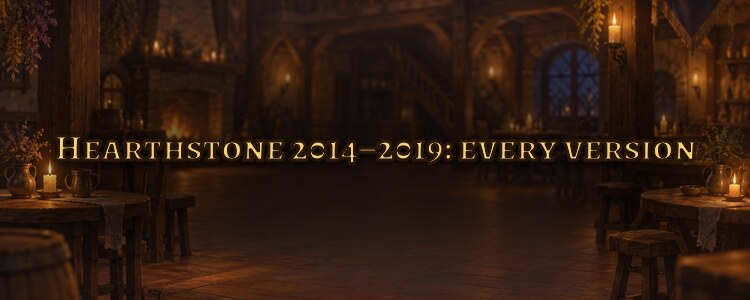
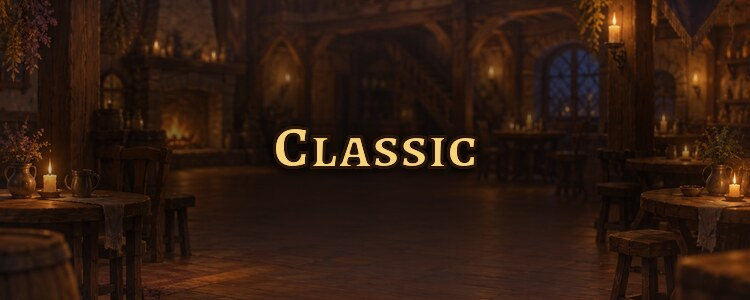
Megapack: shown as Classic; each version looks like its expansion (ui/eras/<era>/, stored once, mapped by the version's files)
Claude-Session: https://claude.ai/code/session_01EiXgp8TjHJ4tufzuCLnDgH

Changed region(s): [[0.0613, 0.42, 0.9507, 0.57]]

diff --git a/tools/pack.py b/tools/pack.py
@@ -57,6 +57,7 @@ DIRS = {  # dir -> (extensions, depth below dir: 1 = files right in it, 2 = in a
 FONT_FILES = (".ttf", ".otf", ".txt", ".md")  # ui/fonts/: the theme's fonts and their licences
 # Card fields that only change how a card looks or sounds: left out of rules_hash.
 PRESENTATION = ("fx", "sounds", "voice")
+MEDIA = IMAGES + AUDIO + (".ttf", ".otf")
 NO_COMPRESS = IMAGES + (".opus", ".ogg", ".mp3")
 ZIP_TIME = (1980, 1, 1, 0, 0, 0)
 
@@ -143,6 +144,7 @@ def version_ids(files):
 
 def version_view(files, version_id):
     """The files of one version of a pack (format.md §13): the shared files and versions/<id>/ moved to the top, the
+    shared files its `files` names at their places in it (its era's ui/: path in the view -> stored path), the
     manifest's rules_hash that version's. Everything that reads a one-version pack reads a view the same way."""
     man = load_json(files["manifest.json"], "manifest.json")
     v = next((x for x in man.get("versions") or [] if isinstance(x, dict) and x.get("id") == version_id), None)
@@ -151,6 +153,7 @@ def version_view(files, version_id):
     pre = f"versions/{version_id}/"
     out = {p: d for p, d in files.items() if not p.startswith("versions/") and not is_version_file(p)}
     out.update((p[len(pre):], d) for p, d in files.items() if p.startswith(pre))
+    out.update((p, files[src]) for p, src in (v.get("files") or {}).items() if src in files)  # its era's look
     if "rules_hash" in v:
         man["rules_hash"] = v["rules_hash"]
     out["manifest.json"] = pretty(man)
@@ -308,7 +311,9 @@ def check_paths(files, r):
         exts, depth = DIRS[top]
         if top == "ui" and len(parts) == 3 and parts[1] == "fonts":
             exts, depth = FONT_FILES, 2
-        elif top == "ui" and p.lower().endswith(".json") and p != "ui/theme.json":
+        elif top == "ui" and len(parts) == 4 and parts[1] == "eras":  # ui/eras/<era>/: an era's look (format.md §13)
+            depth = 3
+        if top == "ui" and p.lower().endswith(".json") and parts[-1] != "theme.json":
             r.error(f"{p}: the only JSON file in ui/ is theme.json")
         elif top == "art" and p.lower().endswith(".json") and parts[-1] != "framing.json":
             r.error(f"{p}: the only JSON file in an art set is framing.json")
@@ -418,6 +423,15 @@ def check_files(files):
     for v in man["versions"]:
         if v.get("dir", f"versions/{v['id']}") != f"versions/{v['id']}":
             r.error(f"manifest.json: version {v['id']}: dir must be versions/{v['id']}")
+        for p, src in v.get("files", {}).items():
+            if src not in files:
+                r.error(f"manifest.json: version {v['id']}: files: {src} (its {p}) is not in the pack")
+    first = {}  # every picture, sound and font once: a version names a shared one in `files` instead of a copy
+    for p, d in sorted(files.items()):
+        if p.lower().endswith(MEDIA):
+            other = first.setdefault(hashlib.sha256(d).digest(), p)
+            if other != p:
+                r.error(f"{p}: the same bytes as {other} (a pack with versions stores each picture, sound and font once)")
     default = man.get("default_version")
     if default not in ids:
         r.error(f"manifest.json: default_version {default!r} is not one of the versions")
@@ -1427,10 +1441,11 @@ def build_versions(src):
                 and not rel.startswith("versions/"):
             files[rel] = f.read_bytes()
     man = load_json(files.pop("manifest.json"), "manifest.json")
-    bases = {}
+    bases, looks = {}, {}
     for name in dict.fromkeys([patches[default]["base"]] + [patches[v["id"]]["base"] for v in vlist]):
         bf, bm = _build_one(src.parent / name)
         bases[name] = {p: d for p, d in bf.items() if is_version_file(p)}
+        looks[name] = {p: d for p, d in bf.items() if p.startswith("ui/") and not p.startswith("ui/fonts/")}
         for p, d in bf.items():
             if p != "manifest.json" and not is_version_file(p):
                 files.setdefault(p, d)
@@ -1441,6 +1456,7 @@ def build_versions(src):
             man[kind] = man.get(kind, []) + [s for s in bm.get(kind, []) if s["id"] not in have]
         for k, mark in bm.get("set_marks", {}).items():
             man.setdefault("set_marks", {}).setdefault(k, mark)
+    looks = era_looks(files, looks)
     entries, fx = [], set()
     fm = src / "formats.json"
     fmj = load_json(fm.read_bytes(), str(fm)) if fm.exists() else {}
@@ -1459,13 +1475,32 @@ def build_versions(src):
         for f in sorted((src / "versions" / vid / "scripts").glob("*.lua")):
             vf[f"scripts/version/{f.name}"] = f.read_bytes()
         fx |= {x for c in load_json(vf["cards.json"], "cards.json") for x in c.get("fx", {}).values()}
-        entries.append({**v, "build": patch.get("build"), "dir": f"versions/{vid}", "rules_hash": rules_hash(vf)})
+        entries.append({**v, "build": patch.get("build"), "dir": f"versions/{vid}", "rules_hash": rules_hash(vf)}
+                       | ({"files": looks[patch["base"]]} if looks[patch["base"]] else {}))
         files.update((f"versions/{vid}/{p}", d) for p, d in vf.items())
         if vid == default:
             files.update(vf)
     man.update(versions=entries, default_version=default, fx=sorted(fx),
                rules_hash=next(e["rules_hash"] for e in entries if e["id"] == default))
     return files, man
+
+
+def era_looks(files, looks):
+    """{base pack: {path in a version's view: stored path}}: the base packs' ui/ pictures and theme.json (`looks`: base
+    -> its ui/ files) where they differ from the shared top's, each picture stored once (ui/eras/<base>/…, or the top's
+    file with the same bytes). Adds the stored files to `files`."""
+    stored = {hashlib.sha256(d).digest(): p for p, d in sorted(files.items()) if p.startswith("ui/")}
+    out = {}
+    for base, ui in looks.items():
+        out[base] = {}
+        for p, d in sorted(ui.items()):
+            if files.get(p) != d:
+                h = hashlib.sha256(d).digest()
+                if h not in stored:
+                    stored[h] = f"ui/eras/{base}/{p[3:]}"
+                    files[stored[h]] = d
+                out[base][p] = stored[h]
+    return out
 
 
 # --- info --------------------------------------------------------------------------------------

diff --git a/tools/test_pack.py b/tools/test_pack.py
@@ -1,5 +1,6 @@
 """Tests of tools/pack.py: python3 -m unittest tools/test_pack.py (from the repo root)."""
 import contextlib
+import hashlib
 import io
 import json
 import sys
@@ -1065,6 +1066,21 @@ class Versions(unittest.TestCase):
         self.assertTrue(any("default_version" in e for e in errs(
             lambda f: f.update({"manifest.json": json.dumps({**man, "default_version": "z"}).encode()}))))
 
+    def test_a_versions_look_is_stored_once(self):
+        """A version's `files` puts shared files at other places in its view (its era's ui/); a pack with versions holds
+        each picture, sound and font once."""
+        files, _ = self.mega()
+        man = json.loads(files["manifest.json"])
+        man["versions"][1]["files"] = {"ui/board.jpg": "ui/eras/b/board.jpg"}
+        files.update({"manifest.json": json.dumps(man).encode(), "ui/board.jpg": b"top", "ui/eras/b/board.jpg": b"b's"})
+        self.assertEqual(pack.check_files(files).errors, [])
+        self.assertEqual((pack.version_view(files, "a")["ui/board.jpg"], pack.version_view(files, "b")["ui/board.jpg"]),
+                         (b"top", b"b's"))
+        files["ui/eras/b/menu.jpg"] = b"top"
+        self.assertTrue(any("ui/eras/b/menu.jpg: the same bytes as ui/board.jpg" in e for e in pack.check_files(files).errors))
+        del files["ui/eras/b/menu.jpg"], files["ui/eras/b/board.jpg"]
+        self.assertTrue(any("ui/eras/b/board.jpg (its ui/board.jpg) is not in the pack" in e for e in pack.check_files(files).errors))
+
     def test_a_version_patch(self):
         vf = {"cards.json": pack.pretty([{"id": "A", "type": "MINION", "class": "GREY", "cost": 2, "keywords": ["WALL"]},
                                          {"id": "B", "type": "MINION", "class": "GREY", "cost": 1}]),
@@ -1223,7 +1239,7 @@ class Eras(unittest.TestCase):
     def test_it_builds_and_every_version_checks(self):
         self.assertEqual(self.report.errors, [])
         self.assertEqual(self.man["id"], "hs-eras")
-        self.assertEqual(self.man["name"]["ru"], "Hearthstone 2014–2019: все версии")
+        self.assertEqual((self.man["name"]["en"], self.man["name"]["ru"]), ("Classic", "Классика"))
         self.assertEqual(sorted(self.man["name"]), sorted(self.man["locales"]))
         ids = [v["id"] for v in self.man["versions"]]
         self.assertLessEqual({"6024", "6485"}, set(ids))
@@ -1233,7 +1249,22 @@ class Eras(unittest.TestCase):
         for v in self.man["versions"]:
             self.assertEqual(sorted(v["name"]), sorted(self.man["locales"]), v["id"])
             self.assertEqual(v["rules_hash"], pack.rules_hash(pack.version_view(self.files, v["id"])))
-        self.assertFalse(pack.bundle_in_client(pack.REPO / "packs/eras"))
+        self.assertTrue(pack.bundle_in_client(pack.REPO / "packs/eras"))  # the client's Classic
+
+    def test_each_version_looks_like_its_expansion(self):
+        """A version's view has its base pack's ui/ (menu, library, board, result screens, theme, set marks); each
+        picture is stored once in the pack (ui/eras/<base>/…)."""
+        naxx, _ = pack.build(pack.REPO / "packs/naxx")
+        dal, _ = pack.build(pack.REPO / "packs/dal")
+        for vid, base in (("6024", naxx), ("31761", dal)):
+            view = pack.version_view(self.files, vid)
+            for p in [p for p in base if p.startswith("ui/") and not p.startswith("ui/fonts/")]:
+                self.assertEqual(view[p], base[p], f"{vid} {p}")
+        self.assertNotEqual(naxx["ui/result_victory.jpg"], dal["ui/result_victory.jpg"])
+        self.assertEqual(self.files["ui/tile.jpg"], (pack.REPO / "packs/eras/ui/tile.jpg").read_bytes(), "Classic's own")
+        media = [d for p, d in self.files.items() if p.lower().endswith(pack.MEDIA)]
+        self.assertEqual(len(media), len({hashlib.sha256(d).digest() for d in media}), "each picture, sound and font once")
+        self.assertFalse([p for p in self.files if p.startswith("versions/") and not pack.is_version_file(p.split("/", 2)[2])])
 
     def own_files(self, vid, base):
         """The files version `vid` has beyond its base pack's (whose files it has unchanged)."""

diff --git a/rust/engine/src/pack.rs b/rust/engine/src/pack.rs
@@ -65,6 +65,8 @@ pub struct VersionInfo {
     pub dir: String,
     pub formats: Vec<String>,
     pub rules_hash: String,
+    /// Its era's look: a path in its view -> the shared file stored once (ui/eras/<era>/…).
+    pub files: BTreeMap<String, String>,
 }
 
 /// The versions of a pack ([] for a one-version pack).
@@ -76,8 +78,8 @@ pub fn versions(files: &Files) -> Vec<VersionInfo> {
         .unwrap_or_default()
 }
 
-/// The files of one version (format.md §13): the shared files and `versions/<id>/` moved to the top, the
-/// manifest's `rules_hash` that version's. Everything that plays a one-version pack plays a view the same way.
+/// The files of one version (format.md §13): the shared files and `versions/<id>/` moved to the top, the shared
+/// files its `files` names at their places in it (its era's look), the manifest's `rules_hash` that version's. Everything that plays a one-version pack plays a view the same way.
 pub fn version_view(files: &Files, id: &str) -> Result<Files, String> {
     let v = versions(files).into_iter().find(|v| v.id == id).ok_or(format!("the pack has no version {id}"))?;
     let mut out: Files = files.iter().filter(|(p, _)| !p.starts_with("versions/") && !is_version_file(p)).map(|(p, d)| (p.clone(), d.clone())).collect();
@@ -85,6 +87,11 @@ pub fn version_view(files: &Files, id: &str) -> Result<Files, String> {
     for (p, d) in files {
         if let Some(rest) = p.strip_prefix(&pre) {
             out.insert(rest.to_string(), d.clone());
+        }
+    }
+    for (p, src) in &v.files {
+        if let Some(d) = files.get(src) {
+            out.insert(p.clone(), d.clone());
         }
     }
     let mut m = strict_json(files.get("manifest.json").ok_or("manifest.json is missing")?, "manifest.json")?;
@@ -503,12 +510,15 @@ mod tests {
     fn a_version_view_is_the_shared_files_and_the_version() {
         let f = |s: &str| s.as_bytes().to_vec();
         let man = r#"{"format": 1, "rules_hash": "top", "default_version": "b",
-            "versions": [{"id": "a", "dir": "versions/a", "rules_hash": "ha"}, {"id": "b", "build": 7, "rules_hash": "hb", "formats": ["standard"]}]}"#;
+            "versions": [{"id": "a", "dir": "versions/a", "rules_hash": "ha", "files": {"ui/board.jpg": "ui/eras/a/board.jpg"}},
+                         {"id": "b", "build": 7, "rules_hash": "hb", "formats": ["standard"]}]}"#;
         let files: Files = [
             ("manifest.json", man),
             ("rules.json", "top"),
             ("decks/x.json", "top"),
             ("art/s/c.png", "art"),
+            ("ui/board.jpg", "top board"),
+            ("ui/eras/a/board.jpg", "a's board"),
             ("versions/a/rules.json", "a"),
             ("versions/a/scripts/version/x.lua", "a"),
             ("versions/b/rules.json", "b"),
@@ -519,8 +529,9 @@ mod tests {
         let vs = versions(&files);
         assert_eq!((vs.len(), vs[1].build, vs[1].formats.clone()), (2, Some(7), vec!["standard".to_string()]));
         let a = version_view(&files, "a").unwrap();
-        assert_eq!(a.keys().collect::<Vec<_>>(), ["art/s/c.png", "manifest.json", "rules.json", "scripts/version/x.lua"]);
+        assert_eq!(a.keys().collect::<Vec<_>>(), ["art/s/c.png", "manifest.json", "rules.json", "scripts/version/x.lua", "ui/board.jpg", "ui/eras/a/board.jpg"]);
         assert_eq!(a["rules.json"], f("a"));
+        assert_eq!((a["ui/board.jpg"].clone(), version_view(&files, "b").unwrap()["ui/board.jpg"].clone()), (f("a's board"), f("top board")), "its era's look");
         assert_eq!(strict_json(&a["manifest.json"], "m").unwrap()["rules_hash"], "ha");
         assert_eq!(version_view(&files, "b").unwrap()["rules.json"], f("b"));
         assert!(version_view(&files, "c").is_err());

diff --git a/docs/packs/format.md b/docs/packs/format.md
@@ -608,7 +608,7 @@ pack in `user://tutorial.json`), `Tutorial` (game/tutorial.gd: hints and boss li
 
 ## 13. A pack with versions
 
-One pack may hold several versions of its game: Hearthstone 2014–2019 (`packs/eras`, id `hs-eras`) has one per game
+One pack may hold several versions of its game: Classic (Hearthstone 2014–2019: `packs/eras`, id `hs-eras`) has one per game
 version, from the launch to Rise of Shadows. Design: `docs/superpowers/specs/2026-11-26-megapack-design.md`.
 
 - `manifest.json` lists them, oldest first, and names the default one (a client without a version choice plays it):
@@ -625,8 +625,12 @@ version, from the launch to Rise of Shadows. Design: `docs/superpowers/specs/202
 - `versions/<id>/` holds that version's own files as a one-version pack has them at its top: `rules.json`,
   `cards.json`, `scripts/`, `missions/`, `locales/`, `layout/`, `decks/`, `tutorial.json`. Everything outside
   `versions/` is shared: pictures, sounds, music, voice, `ui/`.
-- **The view** of a version: the shared files and the files of `versions/<id>/` moved to the top, with the manifest's
-  `rules_hash` set to that version's. The engine, the client and the server read a view as a one-version pack. A
+- A version's look: its optional `files` maps a path in its view to a shared file stored once, e.g.
+  `{"ui/board.jpg": "ui/eras/naxx/board.jpg"}` (its era's menu, library and board pictures, result screens,
+  `theme.json`). `ui/eras/<era>/` holds the pictures and `theme.json` of an era that differ from the top's. Every
+  picture, sound and font is in a pack with versions once (`check` refuses the same bytes at two paths).
+- **The view** of a version: the shared files and the files of `versions/<id>/` moved to the top, the shared files of
+  its `files` at their places, with the manifest's `rules_hash` set to that version's. The engine, the client and the server read a view as a one-version pack. A
   version's `rules_hash` is §3's over its view; the manifest's `rules_hash` is the default version's; `content_hash`
   is over the whole zip's files.
 - The top holds the default version's files too, so a client or server that knows no versions opens the pack as its

diff --git a/packs/eras/README.md b/packs/eras/README.md
@@ -1,4 +1,4 @@
-# Hearthstone 2014–2019: every version (`hs-eras`)
+# Classic (`hs-eras`): Hearthstone 2014–2019, every version
 
 One pack with many versions of the game (docs/packs/format.md §13, design:
 docs/superpowers/specs/2026-11-26-megapack-design.md). `tools/pack.py build packs/eras -o build/packs/eras.cardpack`
@@ -14,7 +14,9 @@ builds it (`tools/build_packs.sh` does it with the other packs). This README is 
 - `versions/<id>/decks/*.json` (optional): the version's own ready decks (below).
 - `formats.json`: the Standard/Wild and Arena periods of the game (below).
 - `ranked.json`: the Ranked and Arena-run periods and the rank names (below).
-- `ui/`: the pack's own menu picture and library tile (they win over the base packs' pictures).
+- `ui/`: the pack's own menu picture and library tile (they win over the base packs' pictures). Each version looks
+  like its base pack: the builder stores the base packs' ui/ pictures and `theme.json` that differ from the top's once
+  in `ui/eras/<base>/` and names them in the version's `files` (docs/packs/format.md §13).
 
 ## Adding a version
 
